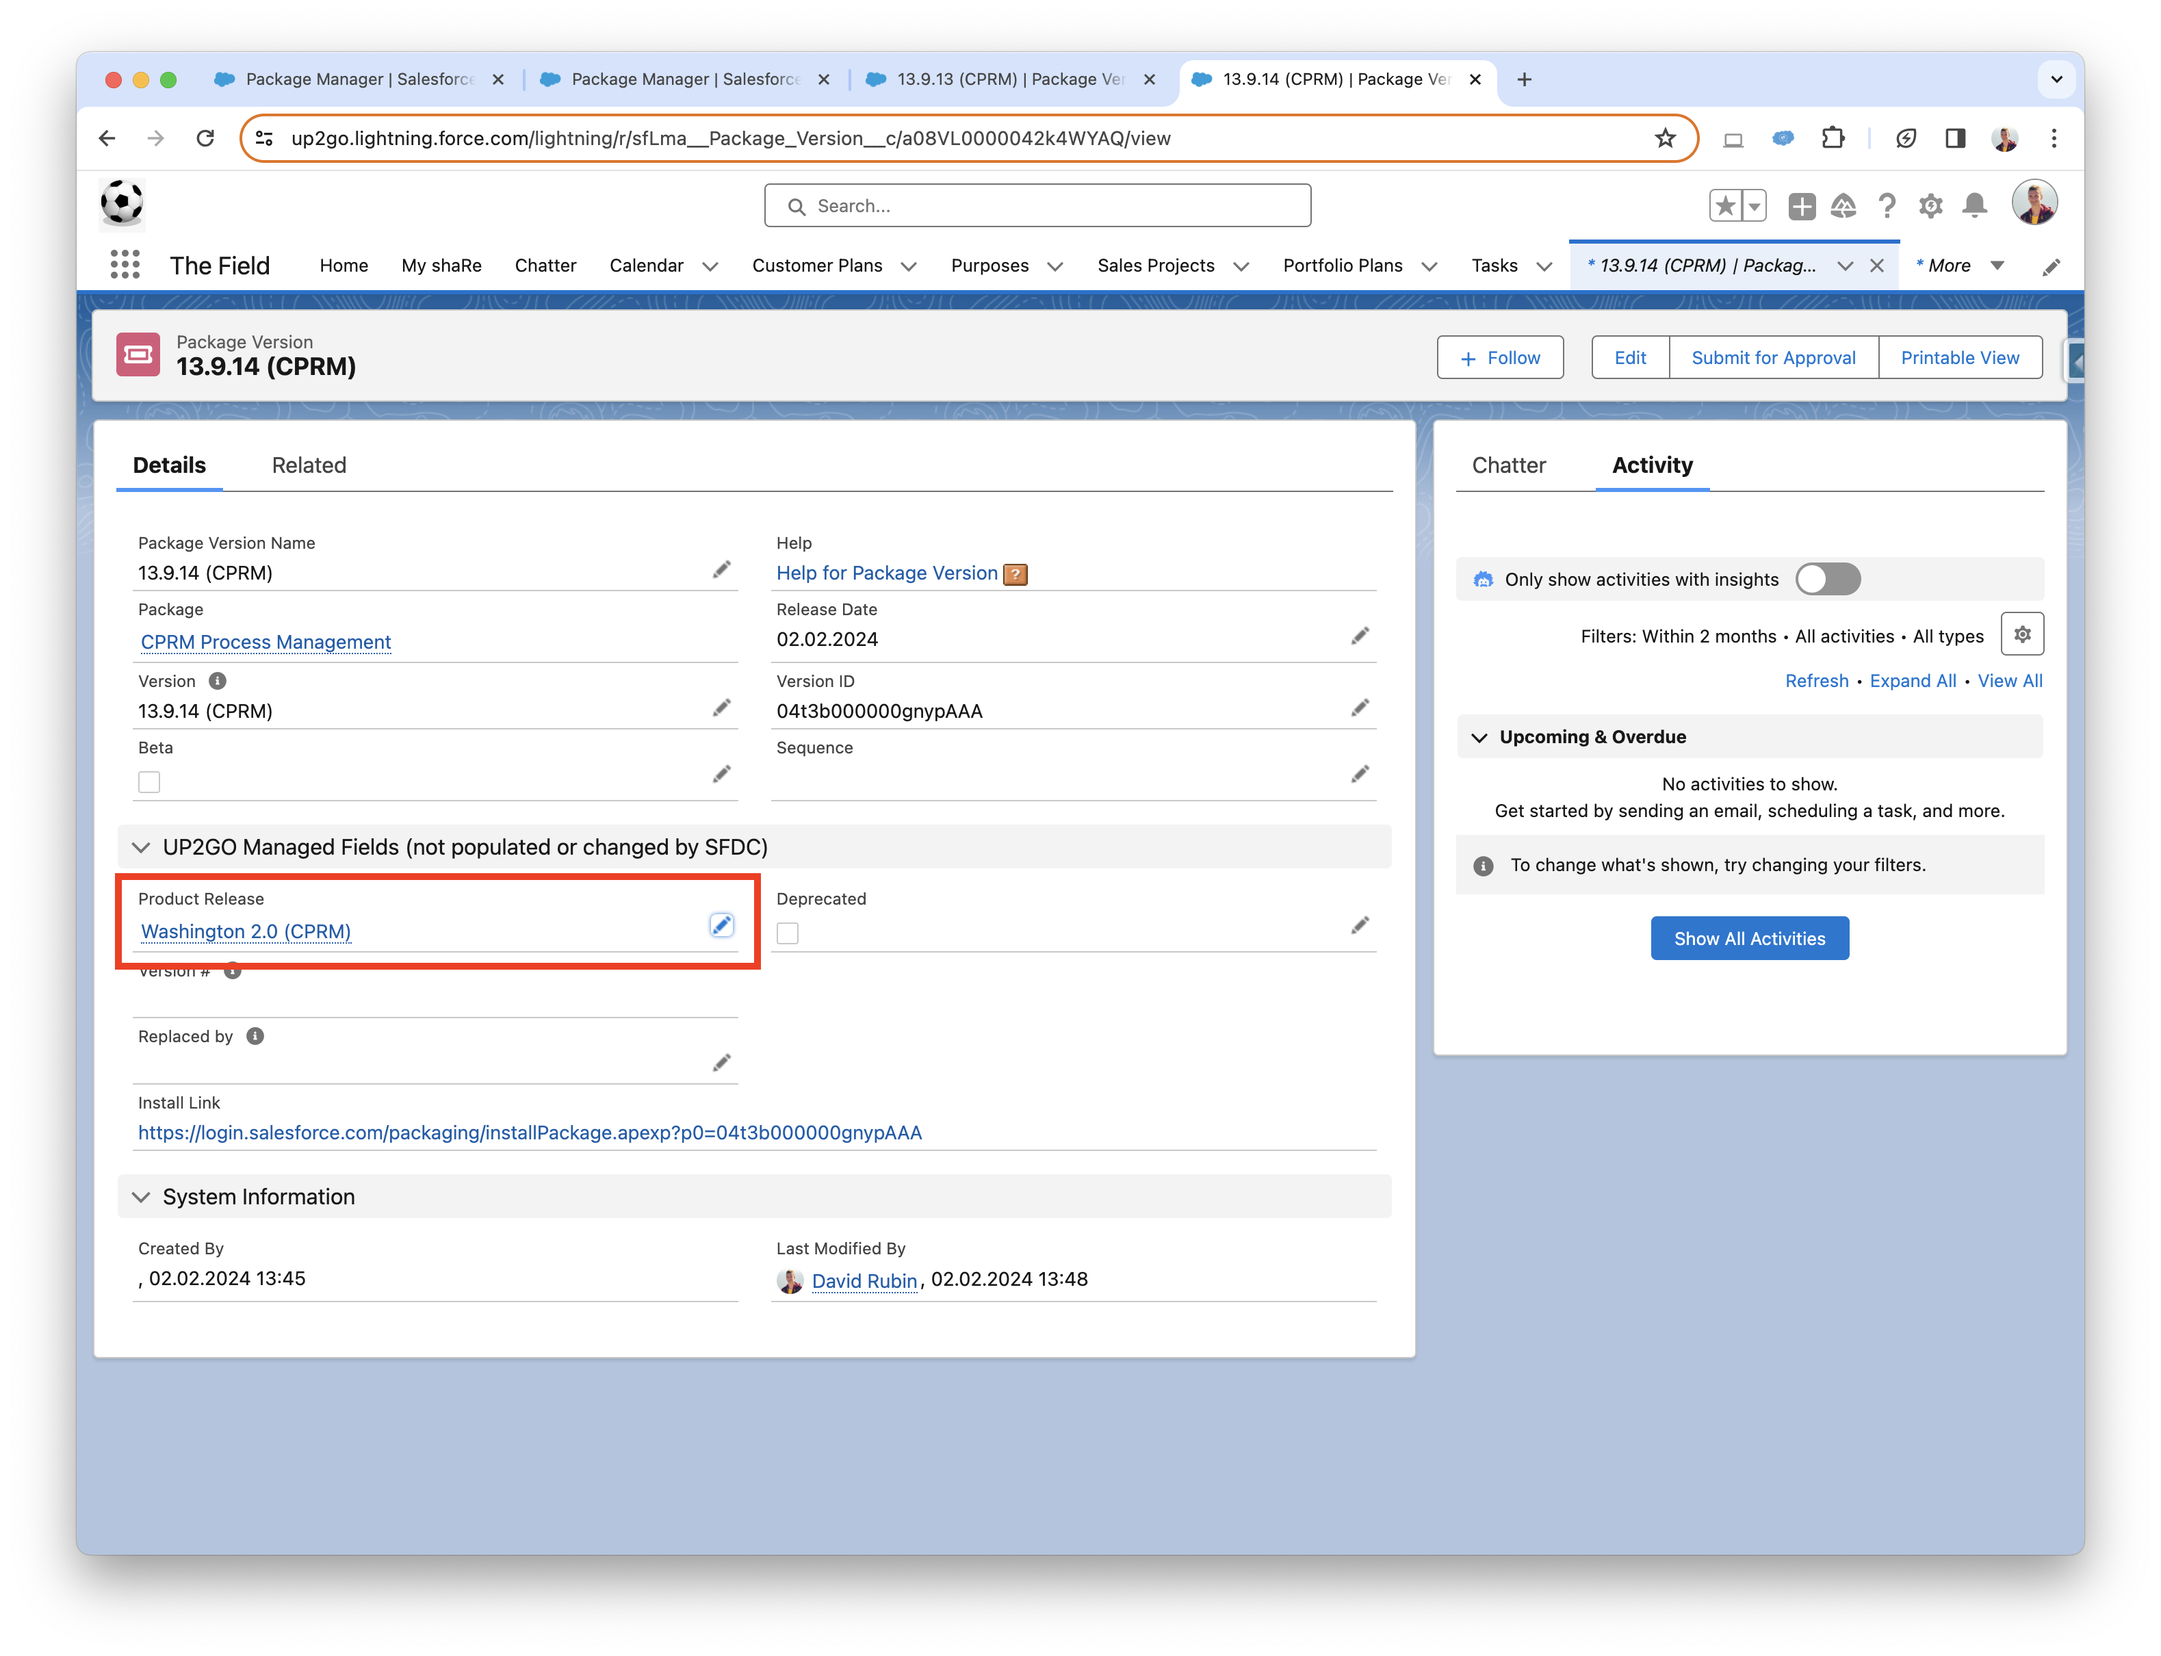
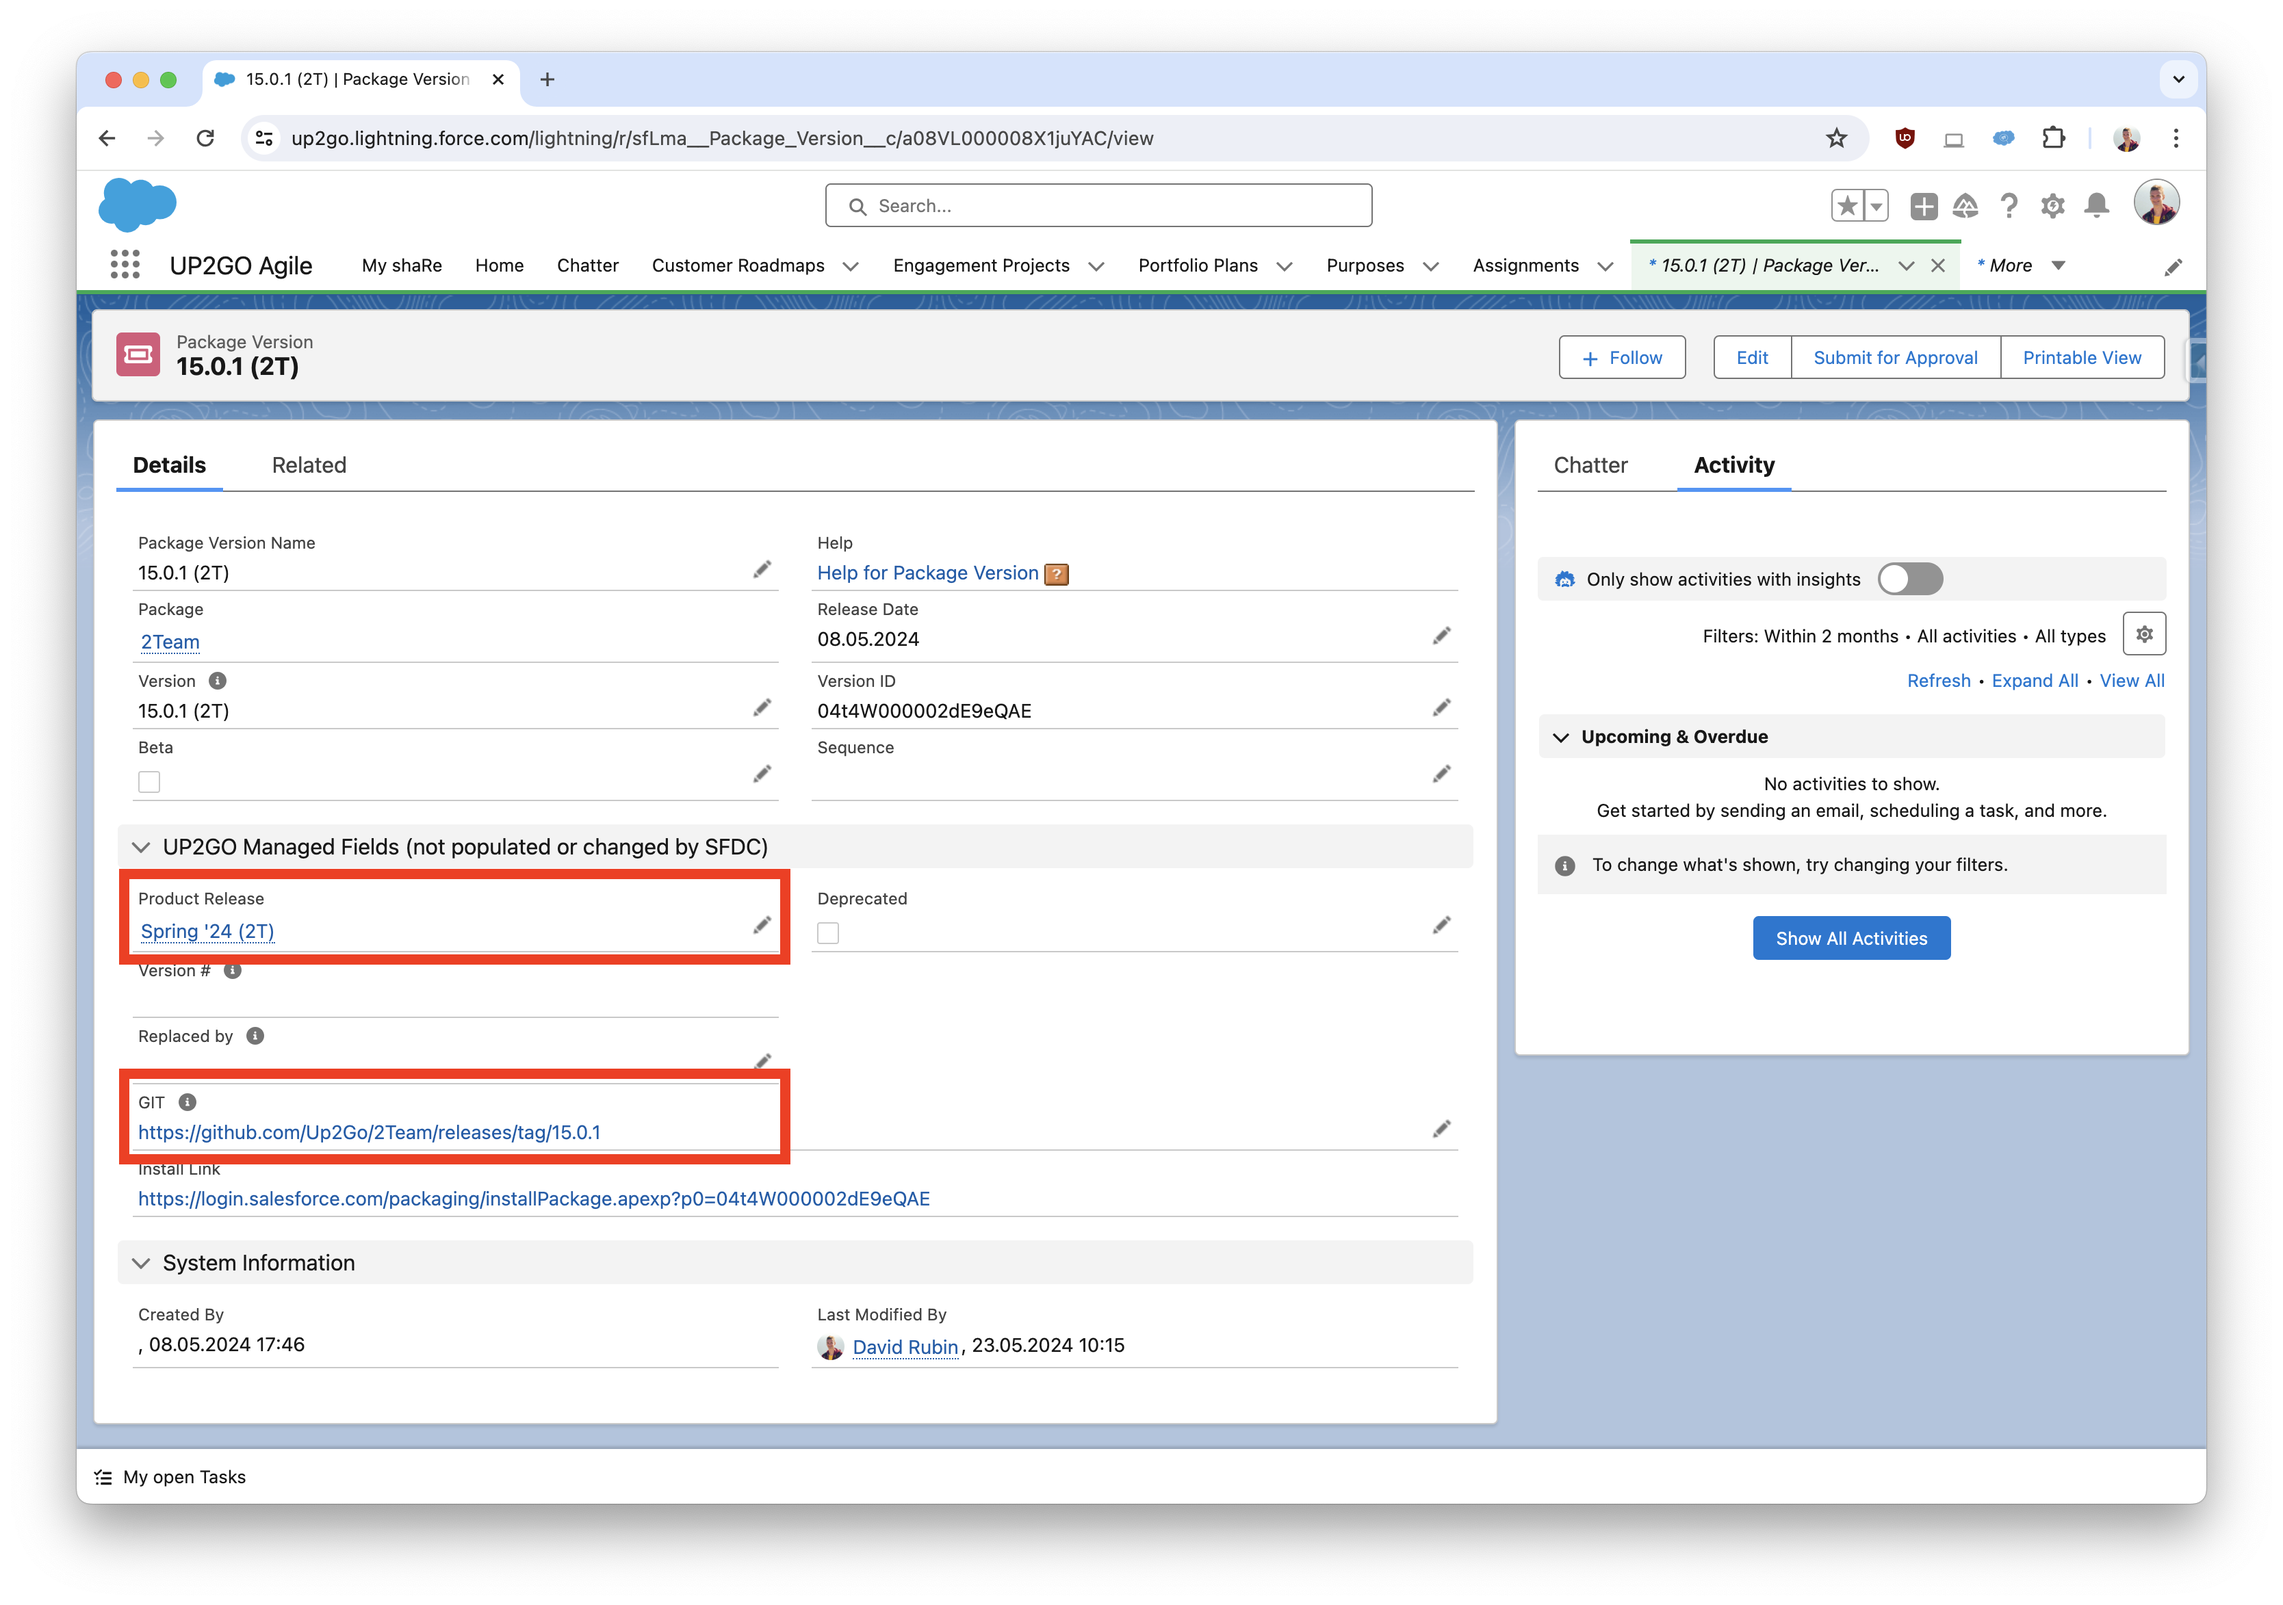
feat: no more patches, git link on package version

diff --git a/docs/release-management/releasing-a-patch.md b/docs/release-management/releasing-a-patch.md
@@ -126,7 +126,7 @@ alt="Up2Go org All package versions"
 width="600px"
 />
 
-Open the Package Version details and add the product release. It differs based on the Major.Minor version, consult the previous package version to figure out which release it belongs to if you are unsure. E.g. for finding the product release for _13.9.14 (CPRM)_ open _13.9.13 (CPRM)_.
+Open the Package Version details and add the product release. It differs based on the Major.Minor version, consult the previous package version to figure out which release it belongs to if you are unsure. E.g. for finding the product release for _13.9.14 (CPRM)_ open _13.9.13 (CPRM)_. You should also populate the "GIT" link to the appropriate Github release.
 
 <img
 src={require('./img/release_patch-package_version.png').default}
@@ -134,26 +134,6 @@ alt="Up2Go org Package version details"
 width="600px"
 />
 
-Open the Product Release you just linked and update the "Latest Package Version" to the one you uploaded. Pay attention you don't set a 2Team package version on a CPRM product release and vice versa.
-
-<img
-src={require('./img/release_patch-product_release.png').default}
-alt="Up2Go org Product release details"
-width="600px"
-/>
-
-On the right side also create a new Patch for the Product Release. The easiest approach is to copy the name from the latest previous patch and adjust the version and index. Check the image below for an example on how it should look.
-```
-     Patch Name: ([CPRM|2Team]) {Product Release Name} Patch {patch index} (Major.Minor.Patch)
-Package Version: // the one you uploaded
-            Git: // url to the github release
-```
-
-<img
-src={require('./img/release_patch-new_product_patch.png').default}
-alt="Up2Go org new Product Patch"
-width="600px"
-/>
 
 ### Inform the right people
 
